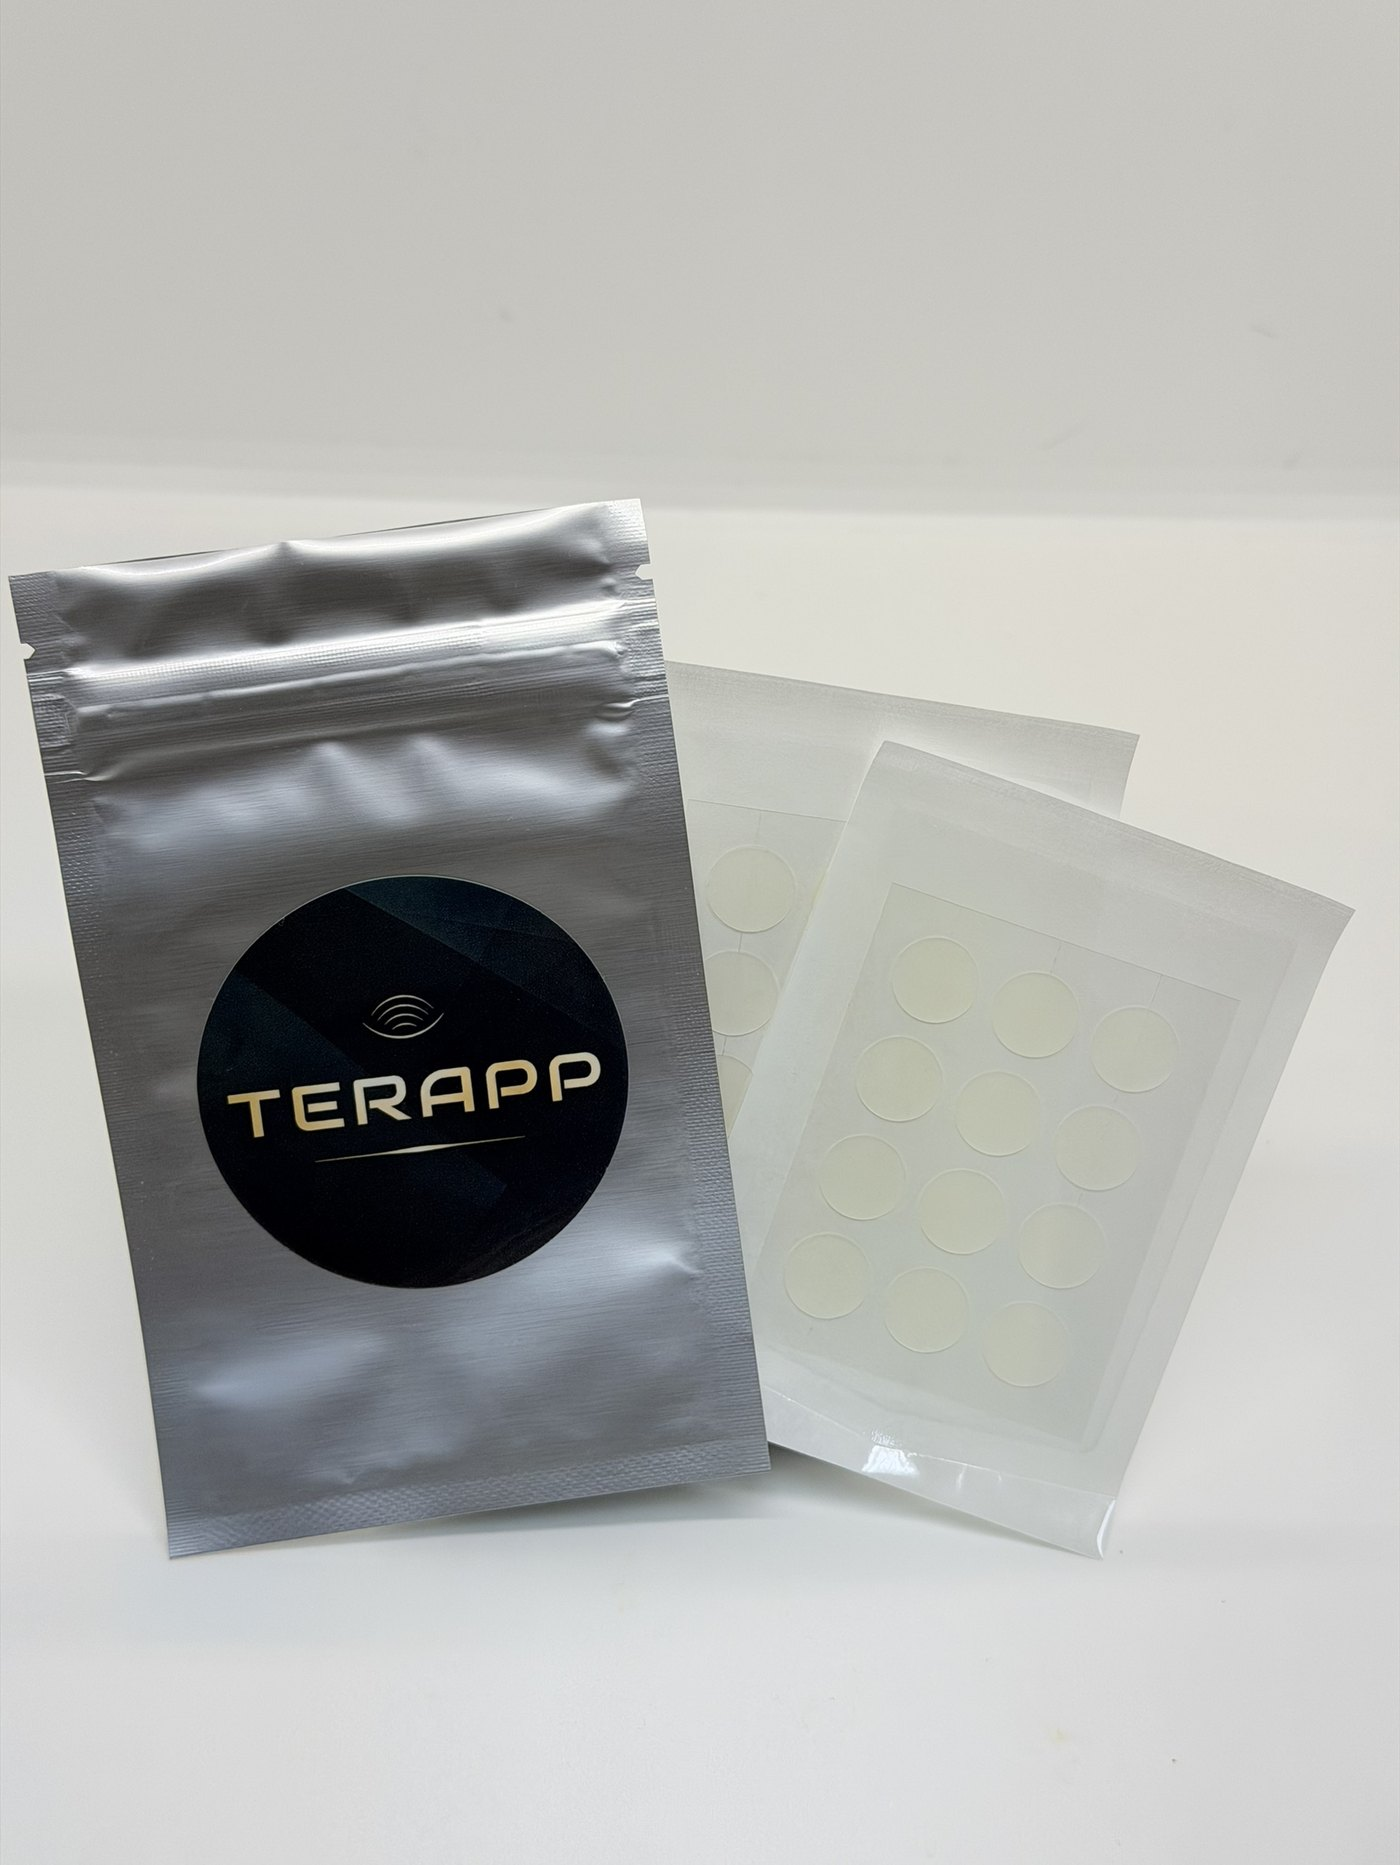
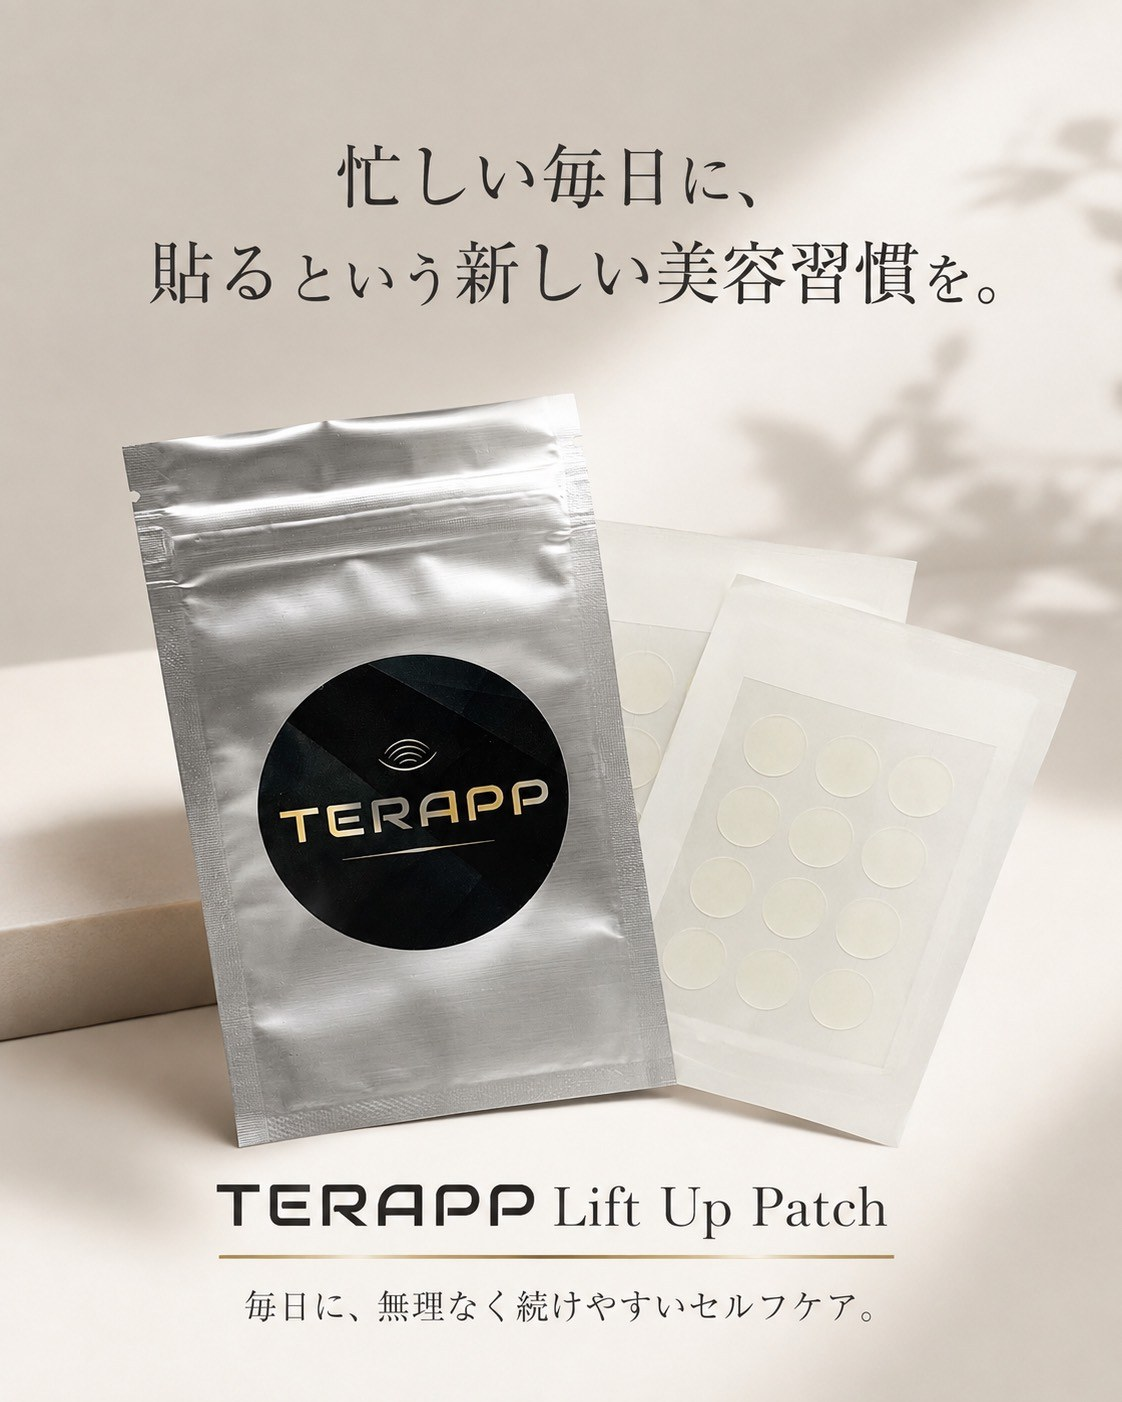
lp001: 商品ビジュアルをキャッチコピー入り正式画像に差し替え（全体表示・alt更新）

diff --git a/lp001/index.html b/lp001/index.html
@@ -441,7 +441,7 @@ header:not(.scrolled) .nav-cta:hover{background:var(--ivory);color:var(--ink)}
 @keyframes prSpin{to{transform:rotate(360deg)}}
 .pr-card{position:relative;z-index:2;width:100%;height:100%;border-radius:12px;overflow:hidden;
   box-shadow:0 50px 90px -50px rgba(30,27,24,.6);border:1px solid var(--line-gold)}
-.pr-card img{width:100%;height:100%;object-fit:cover}
+.pr-card img{width:100%;height:100%;object-fit:contain;background:#F6F1EA}
 .pr-steps{position:relative;z-index:3}
 .pr-step{min-height:100svh;display:flex;flex-direction:column;justify-content:center;padding:clamp(4rem,10vw,8rem) clamp(1.6rem,6vw,5rem);max-width:640px}
 .pr-step .no{font-family:var(--sans);font-size:.7rem;letter-spacing:.32em;color:var(--champagne);text-transform:uppercase;margin-bottom:1.2rem}
@@ -910,7 +910,7 @@ footer{background:var(--dark-2);color:var(--on-dark);padding:clamp(3rem,7vw,5rem
           <span class="pr-ring b" aria-hidden="true"></span>
           <div class="pr-card">
             <picture><source srcset="images/package.webp" type="image/webp">
-            <img src="images/package.jpg" width="1400" height="1865" loading="lazy" decoding="async" alt="TERAPP Lift Up Patch の商品パッケージと、パッチのシート。"></picture>
+            <img src="images/package.jpg" width="1122" height="1402" loading="lazy" decoding="async" alt="忙しい毎日に、貼るという新しい美容習慣を。TERAPP Lift Up Patch の商品パッケージとパッチのシート。毎日に、無理なく続けやすいセルフケア。"></picture>
           </div>
         </div>
       </div>
